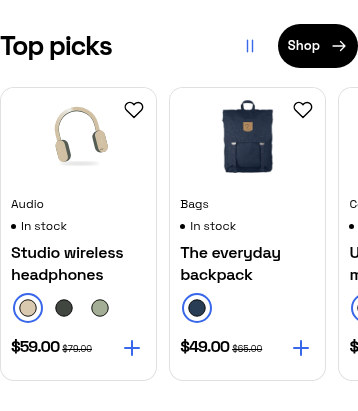
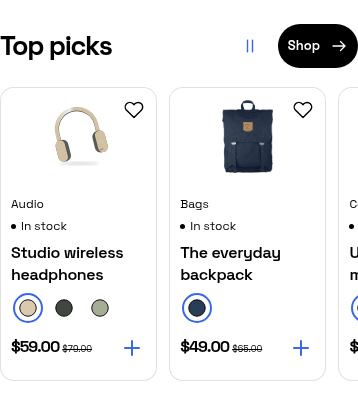
Hide horizontal scrollbar rails while preserving scrolling

diff --git a/public/css/store-scrollbars.css b/public/css/store-scrollbars.css
@@ -1,4 +1,4 @@
-/* The saved theme color also styles visible desktop scrollbars. */
+/* The saved theme color styles visible vertical desktop scrollbars. */
 @media (min-width: 601px) and (hover: hover) and (pointer: fine) {
     :root, * { scrollbar-width: thin; scrollbar-color: var(--store-accent) transparent; }
     .carousel-track { scrollbar-color: var(--store-accent) transparent; }
@@ -6,7 +6,7 @@
     /* Use rounded, inset thumbs where custom scrollbar parts are available. */
     @supports selector(::-webkit-scrollbar) {
         :root, *, .catalog-sidebar, .carousel-track { scrollbar-width: auto; scrollbar-color: auto; }
-        ::-webkit-scrollbar { width: 8px; height: 8px; }
+        ::-webkit-scrollbar { width: 8px; height: 0; }
         ::-webkit-scrollbar-track, ::-webkit-scrollbar-corner { background: transparent; }
         ::-webkit-scrollbar-thumb {
             background-color: var(--store-accent);
@@ -18,4 +18,18 @@
         ::-webkit-scrollbar-thumb:hover, ::-webkit-scrollbar-thumb:active { border-width: 1px; }
         ::-webkit-scrollbar-button { display: none; width: 0; height: 0; }
     }
+}
+
+/* Horizontal content still scrolls with touch, keyboard, wheel, and controls. */
+::-webkit-scrollbar:horizontal { display: none; height: 0; }
+.carousel-track, .category-grid, .catalog-category-nav, .category-nav-track, .card-colors, .table-scroll {
+    scrollbar-width: none;
+    -ms-overflow-style: none;
+}
+.carousel-track::-webkit-scrollbar, .category-grid::-webkit-scrollbar,
+.catalog-category-nav::-webkit-scrollbar, .category-nav-track::-webkit-scrollbar,
+.card-colors::-webkit-scrollbar, .table-scroll::-webkit-scrollbar { display: none; height: 0; }
+@media (max-width: 850px) {
+    .gallery-thumbs { scrollbar-width: none; -ms-overflow-style: none; }
+    .gallery-thumbs::-webkit-scrollbar { display: none; height: 0; }
 }

diff --git a/design-qa.md b/design-qa.md
@@ -10,7 +10,7 @@ The desktop secondary navigation row is removed. **Delivery across Lebanon** now
 
 Home category links have no filled icon circles or tile backgrounds. Only their icons use the saved accent; labels are regular black text and become bold on hover. Selected category navigation remains bold. Category chevrons and the arrow beside View all products in this section are removed. Uploaded SVG icons use the same surrounding color through an alpha mask while retaining the sandboxed external asset route.
 
-Visible desktop scrollbars use the saved accent with transparent tracks. Chromium/WebKit custom parts have an 8px rail and rounded inset thumbs that widen slightly on hover. The native thin-scrollbar color is available as the standards fallback. Phone/touch, category-strip, and swatch scrollbars retain their hidden behavior.
+Visible vertical desktop scrollbars use the saved accent with transparent tracks. Chromium/WebKit custom parts have an 8px rail and rounded inset thumbs that widen slightly on hover. The native thin-scrollbar color is available as the standards fallback. All horizontal scrollbar rails are hidden, including Top picks, categories, swatches, horizontal gallery thumbnails, and admin tables. Scrolling, carousel controls, keyboard access, and autoplay remain available. Phone/touch vertical scrollbars retain their hidden behavior.
 
 Page content stays fully opaque throughout ordinary navigation. A short arrival slide gives links/category changes a gentle movement while keeping the header still. Restored Back/Forward pages get the same small movement without changing their scroll position. Product galleries and information have a slight staggered entry movement. There is no page fade, blank loading state, or delayed page-link interception. Native history and scrolling remain available, and reduced-motion preferences suppress these animations.
 
@@ -60,6 +60,7 @@ The nonblocking cookie notice explains the existing essential shopping/security 
 
 ## Verification
 
+- Horizontal-scrollbar removal passed **15 Chromium page/viewport checks** across home, catalog, and headphones detail at 320, 390, 768, 1440, and 1920px, with browser scrollbar hiding disabled. Horizontal rails are hidden, vertical desktop rails retain their saved accent/8px size, and no document overflow occurred. Carousel arrows, keyboard scrolling, horizontal wheel scrolling, and actual five-second autoplay passed. The horizontal table and narrow gallery styles also hide rails through the standards property; no JavaScript errors occurred.
 - MySQL: **68 tests / 577 assertions**, including saved-count additions/removals, initial cart/saved counts, announcement delivery link and removed desktop navigation, policy links, cookie version validation, encrypted cookie attributes/lifetime, cart/session preservation, HTML fallback, live-search bounds, literal wildcard handling, validated input, session-free responses, cached-candidate visibility, role authorization, stock safety, idempotent orders, and Lebanese phone normalization.
 - The announcement/category/scrollbar revision passed **32 page/viewport checks** across home, catalog, bracelet detail, and help at 320, 360, 390, 412, 768, 1024, 1440, and 1920px. The delivery link and Cash on delivery stayed on one row without overlap or document overflow; the removed navigation row did not render. Category labels, transparent icon backgrounds, arrow removal, bold hover states, and hidden phone/category/swatch scrollbars passed. Two real theme stylesheet previews verified scrollbar and icon colors; uploaded SVG mask pixels matched both accents without a filled background. Drawer Discover navigation and the announcement Help link worked.
 - A separate run with Chromium's screenshot scrollbar hiding disabled verified the actual painted accent and native scrollbar dragging. Catalog widths of 768, 1024, and 1440px retained inline prices without document overflow when the scrollbar occupied space.

diff --git a/README.md b/README.md
@@ -117,7 +117,7 @@ Top picks advances by one card automatically after five seconds, looping back at
 
 The desktop header has no secondary navigation row. **Delivery across Lebanon** links to Help from the announcement bar, beside Cash on delivery, including on phones. The phone drawer retains **Discover** and **Shop**. Home category links have transparent backgrounds, unframed accent icons, regular labels that become bold on hover, and no trailing arrows; selected category navigation remains bold. Cart and favorites have live counters at the upper right of their transparent header icons, including on phones; the header has no My cart label. The cash-on-delivery announcement has no arrow. Desktop catalog breadcrumbs, result count, and filters share one row, with the category strip and filters stacked on smaller screens. Card image frames are capped at 156px, empty color rows are omitted, and desktop related cards stay at most 220px wide. Product-detail image frames are 360px high on desktop, 300px on tablets, and 260px on phones, with contained images and purchase buttons beside each other.
 
-Visible desktop scrollbars use the saved website accent, rounded inset thumbs, and transparent tracks. Browsers with custom scrollbar parts use an 8px rail and a slightly wider thumb on hover; other browsers use their thin native scrollbar with the same accent. Phone/touch and category/swatch scrollbar visibility retains the existing behavior. Uploaded category SVG icons also inherit the surrounding icon color while continuing to load from their sandboxed asset route.
+Visible vertical desktop scrollbars use the saved website accent, rounded inset thumbs, and transparent tracks. Browsers with custom scrollbar parts use an 8px rail and a slightly wider thumb on hover; other browsers use their thin native scrollbar with the same accent. Horizontal scrollbar rails are hidden, including Top picks, categories, swatches, horizontal gallery thumbnails, and admin tables; their content still scrolls. Phone/touch scrollbar visibility retains the existing behavior. Uploaded category SVG icons also inherit the surrounding icon color while continuing to load from their sandboxed asset route.
 
 Dedicated `/privacy-policy` and `/terms-and-conditions` pages are linked from the footer, help page, and checkout review. Their copy lives in `resources/views/store/privacy.blade.php` and `resources/views/store/terms.blade.php`; update business-specific contact, retention, delivery, and return details there as needed. The cookie notice explains the essential shopping/security cookies and the absence of advertising/analytics cookies. Dismissal is saved for 180 days in an encrypted, HttpOnly, SameSite=Lax cookie (Secure over HTTPS), with a CSRF-protected form and AJAX enhancement. **Cookie settings** in the footer reopens the notice; without JavaScript it links to the cookie explanation. Browsing is never blocked by a consent wall, and the notice stays behind open dialogs. Optional tracking is not installed or enabled by acknowledging the notice.
 

diff --git a/docs/VALIDATION.md b/docs/VALIDATION.md
@@ -82,3 +82,5 @@ The announcement/category/scrollbar revision passed **68 MySQL tests / 577 asser
 Desktop scrollbar styling uses the saved theme variable, rounded inset thumbs, transparent tracks, and an 8px custom rail with a thin native fallback. Phone/touch and category/swatch scrollbar visibility is preserved. Real theme stylesheet previews in magenta and green changed both scrollbar and category icon colors without altering saved store settings. Pixel checks verified uploaded SVG masks inherit both colors with transparent backgrounds; the temporary asset was deleted, and the original sandboxed SVG route/sanitizer remained unchanged. No JavaScript errors occurred. Updated captures are linked from design-qa.md.
 
 A separate Chromium run disabled its default screenshot scrollbar hiding and verified the actual painted accent plus native thumb dragging. Catalog checks at 768, 1024, and 1440px retained inline prices and had no document overflow with the visible scrollbar occupying space.
+
+The horizontal-scrollbar revision hides all horizontal rails while retaining scrolling. A zero-height horizontal WebKit scrollbar and standards-based suppression cover Top picks, categories, swatches, horizontal gallery thumbnails, and admin table wrappers. Vertical desktop scrollbar color/width is preserved. **15 Chromium page/viewport checks** across home, catalog, and headphones detail at 320, 390, 768, 1440, and 1920px passed with browser scrollbar hiding disabled. Carousel arrows, keyboard and horizontal-wheel scrolling, real five-second autoplay, hidden horizontal table/gallery rails, and no document overflow/JavaScript errors passed. Home and carousel captures were refreshed.
